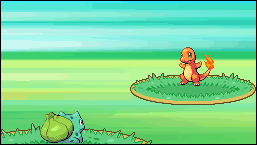
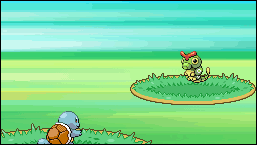
add pokemons to lists

Changed region(s): [[0.1245, 0.7448, 0.3424, 0.9931], [0.6848, 0.3034, 0.8405, 0.6069]]

diff --git a/src/rars/tools/PokemonGraphics.java b/src/rars/tools/PokemonGraphics.java
@@ -98,14 +98,30 @@ public class PokemonGraphics extends AbstractToolAndApplication {
     }
 
     private void initializePokemon(){
-        pokemonTypes.put(0, "Planta");
+        pokemonTypes.put(0, "Normal");
         pokemonTypes.put(1, "Fuego");
         pokemonTypes.put(2, "Agua");
+        pokemonTypes.put(3, "Electrico");
+        pokemonTypes.put(4, "Planta");
+        pokemonTypes.put(5, "Hielo");
+        pokemonTypes.put(6, "Pelea");
+        pokemonTypes.put(7, "Veneno");
+        pokemonTypes.put(8, "Bicho");
+        pokemonTypes.put(9, "Dragon");
+        pokemonTypes.put(10, "Volador");
+        pokemonTypes.put(11, "Tierra");
+        pokemonTypes.put(12, "Roca");
+        pokemonTypes.put(13, "Fantasma");
+        pokemonTypes.put(14, "Psiquico");
 
         pokemonStatus.put(0, "Saludable");
         pokemonStatus.put(1, "Envenenado");
         pokemonStatus.put(2, "Dormido");
-        pokemonStatus.put(3, "Desmayado");
+        pokemonStatus.put(3, "Paralizado");
+        pokemonStatus.put(4, "Quemado");
+        pokemonStatus.put(5, "Congelado");
+        pokemonStatus.put(6, "Confundido");
+        pokemonStatus.put(7, "Desmayado");
 
         pokemonNames.put(1, "Bulbasaur");
         pokemonNames.put(2, "Ivysaur");
@@ -207,6 +223,57 @@ public class PokemonGraphics extends AbstractToolAndApplication {
         pokemonNames.put(98, "Krabby");
         pokemonNames.put(99, "Kingler");
         pokemonNames.put(100, "Voltorb");
+        pokemonNames.put(101, "Electrode");
+        pokemonNames.put(102, "Exeggcute");
+        pokemonNames.put(103, "Exeggutor");
+        pokemonNames.put(104, "Cubone");
+        pokemonNames.put(105, "Marowak");
+        pokemonNames.put(106, "Hitmonlee");
+        pokemonNames.put(107, "Hitmonchan");
+        pokemonNames.put(108, "Lickitung");
+        pokemonNames.put(109, "Koffing");
+        pokemonNames.put(110, "Weezing");
+        pokemonNames.put(111, "Rhyhorn");
+        pokemonNames.put(112, "Rhydon");
+        pokemonNames.put(113, "Chansey");
+        pokemonNames.put(114, "Tangela");
+        pokemonNames.put(115, "Kangaskhan");
+        pokemonNames.put(116, "Horsea");
+        pokemonNames.put(117, "Seadra");
+        pokemonNames.put(118, "Goldeen");
+        pokemonNames.put(119, "Seaking");
+        pokemonNames.put(120, "Staryu");
+        pokemonNames.put(121, "Starmie");
+        pokemonNames.put(122, "Mr.Mime");
+        pokemonNames.put(123, "Scyther");
+        pokemonNames.put(124, "Jynx");
+        pokemonNames.put(125, "Electabuzz");
+        pokemonNames.put(126, "Magmar");
+        pokemonNames.put(127, "Pinsir");
+        pokemonNames.put(128, "Tauros");
+        pokemonNames.put(129, "Magikarp");
+        pokemonNames.put(130, "Gyarados");
+        pokemonNames.put(131, "Lapras");
+        pokemonNames.put(132, "Ditto");
+        pokemonNames.put(133, "Eevee");
+        pokemonNames.put(134, "Vaporeon");
+        pokemonNames.put(135, "Jolteon");
+        pokemonNames.put(136, "Flareon");
+        pokemonNames.put(137, "Porygon");
+        pokemonNames.put(138, "Omanyte");
+        pokemonNames.put(139, "Omastar");
+        pokemonNames.put(140, "Kabuto");
+        pokemonNames.put(141, "Kabutops");
+        pokemonNames.put(142, "Aerodactyl");
+        pokemonNames.put(143, "Snorlax");
+        pokemonNames.put(144, "Articuno");
+        pokemonNames.put(145, "Zapdos");
+        pokemonNames.put(146, "Moltres");
+        pokemonNames.put(147, "Dratini");
+        pokemonNames.put(148, "Dragonair");
+        pokemonNames.put(149, "Dragonite");
+        pokemonNames.put(150, "Mewtwo");
+        pokemonNames.put(151, "Mew");
     }
 
     // Se definen los valores de los registros
